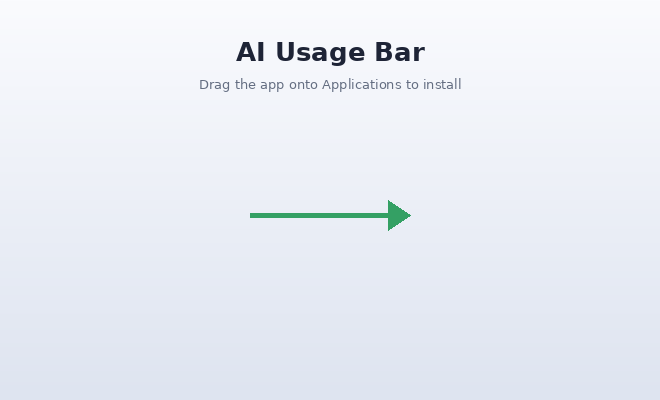
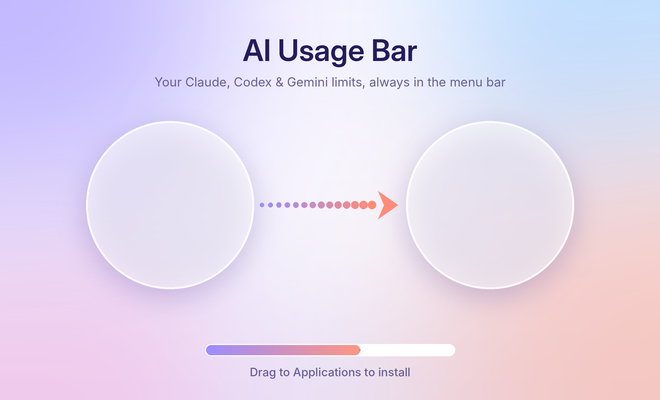
build: richer dmg background (aurora gradient, glass pedestals, usage-meter motif)
Claude-Session: https://claude.ai/code/session_01BcFkdVyPfRa1y8JLhRKb5R

diff --git a/Scripts/make-dmg-background.py b/Scripts/make-dmg-background.py
@@ -1,0 +1,68 @@
+# Regenerates Resources/dmg/background{,@2x}.png (needs Pillow and the Inter font). Run from the repo root.
+from PIL import Image, ImageDraw, ImageFont, ImageFilter
+import math, random
+S=4; W,H=660*S,400*S
+def lerp(a,b,t): return tuple(int(a[i]+(b[i]-a[i])*t) for i in range(3))
+base=Image.new("RGB",(W,H))
+bp=base.load()
+c0=(250,248,255); c1=(232,228,250)
+for y in range(H):
+    c=lerp(c0,c1,y/(H-1))
+    for x in range(W): bp[x,y]=c
+img=base.convert("RGBA")
+def blob(cx,cy,r,col,alpha):
+    layer=Image.new("RGBA",(W,H),col+(0,))
+    d=ImageDraw.Draw(layer)
+    d.ellipse([cx*S-r*S,cy*S-r*S,cx*S+r*S,cy*S+r*S],fill=col+(alpha,))
+    layer=layer.filter(ImageFilter.GaussianBlur(r*S*0.55))
+    return Image.alpha_composite(img,layer)
+img=blob(70,40,150,(156,141,255),150)
+img=blob(600,330,170,(255,170,140),130)
+img=blob(560,30,120,(120,190,255),110)
+img=blob(90,380,130,(255,150,210),90)
+img=blob(330,200,110,(255,255,255),140)
+d=ImageDraw.Draw(img)
+def F(name,sz): return ImageFont.truetype(f"/usr/share/fonts/opentype/inter/{name}.otf",int(sz*S))
+# glass pedestals under icon slots
+def glass(cx,cy,r):
+    global img
+    sh=Image.new("RGBA",(W,H),(60,40,140,0))
+    ImageDraw.Draw(sh).ellipse([cx*S-r*S,(cy+8)*S-r*S,cx*S+r*S,(cy+8)*S+r*S],fill=(60,40,140,60))
+    sh=sh.filter(ImageFilter.GaussianBlur(14*S))
+    img=Image.alpha_composite(img,sh)
+    g=Image.new("RGBA",(W,H),(255,255,255,0))
+    gd=ImageDraw.Draw(g)
+    gd.ellipse([cx*S-r*S,cy*S-r*S,cx*S+r*S,cy*S+r*S],fill=(255,255,255,150),outline=(255,255,255,230),width=2*S)
+    img=Image.alpha_composite(img,g)
+glass(170,205,84); glass(490,205,84)
+d=ImageDraw.Draw(img)
+# arrow: dotted trail with gradient + head
+x0,x1,y=262,398,205
+n=14
+for i in range(n):
+    t=i/(n-1)
+    col=lerp((156,141,255),(255,140,120),t)
+    x=x0+(x1-x0-26)*t
+    r=2.2+2.0*t
+    d.ellipse([(x-r)*S,(y-r)*S,(x+r)*S,(y+r)*S],fill=col+(255,))
+hx=x1; col=(255,140,120)
+d.polygon([(hx*S,y*S),((hx-20)*S,(y-14)*S),((hx-14)*S,y*S),((hx-20)*S,(y+14)*S)],fill=col+(255,))
+# title
+d.text((W//2,50*S),"AI Usage Bar",font=F("InterDisplay-SemiBold",30),fill=(36,28,92),anchor="mm")
+d.text((W//2,82*S),"Your Claude, Codex & Gemini limits, always in the menu bar",font=F("Inter-Regular",12.5),fill=(104,96,150),anchor="mm")
+# footer usage-meter capsule with caption
+mx0,mx1,my=205,455,350
+d.rounded_rectangle([mx0*S,(my-6)*S,mx1*S,(my+6)*S],radius=6*S,fill=(255,255,255,190),outline=(255,255,255,255),width=S)
+fill_w=(mx1-mx0)*0.62
+cap=Image.new("RGBA",(W,H),(0,0,0,0)); cd=ImageDraw.Draw(cap)
+for i in range(int(fill_w*S)):
+    t=i/(fill_w*S)
+    cd.line([(mx0*S+i,(my-5)*S),(mx0*S+i,(my+5)*S)],fill=lerp((156,141,255),(255,150,130),t)+(255,))
+mask=Image.new("L",(W,H),0)
+ImageDraw.Draw(mask).rounded_rectangle([mx0*S+S,(my-5)*S,(mx0+fill_w)*S,(my+5)*S],radius=5*S,fill=255)
+img.paste(cap,(0,0),mask)
+d=ImageDraw.Draw(img)
+d.text((W//2,372*S),"Drag to Applications to install",font=F("Inter-Medium",11.5),fill=(104,96,150),anchor="mm")
+out=img.convert("RGB")
+out.resize((1320,800),Image.LANCZOS).save("Resources/dmg/background@2x.png")
+out.resize((660,400),Image.LANCZOS).save("Resources/dmg/background.png")
